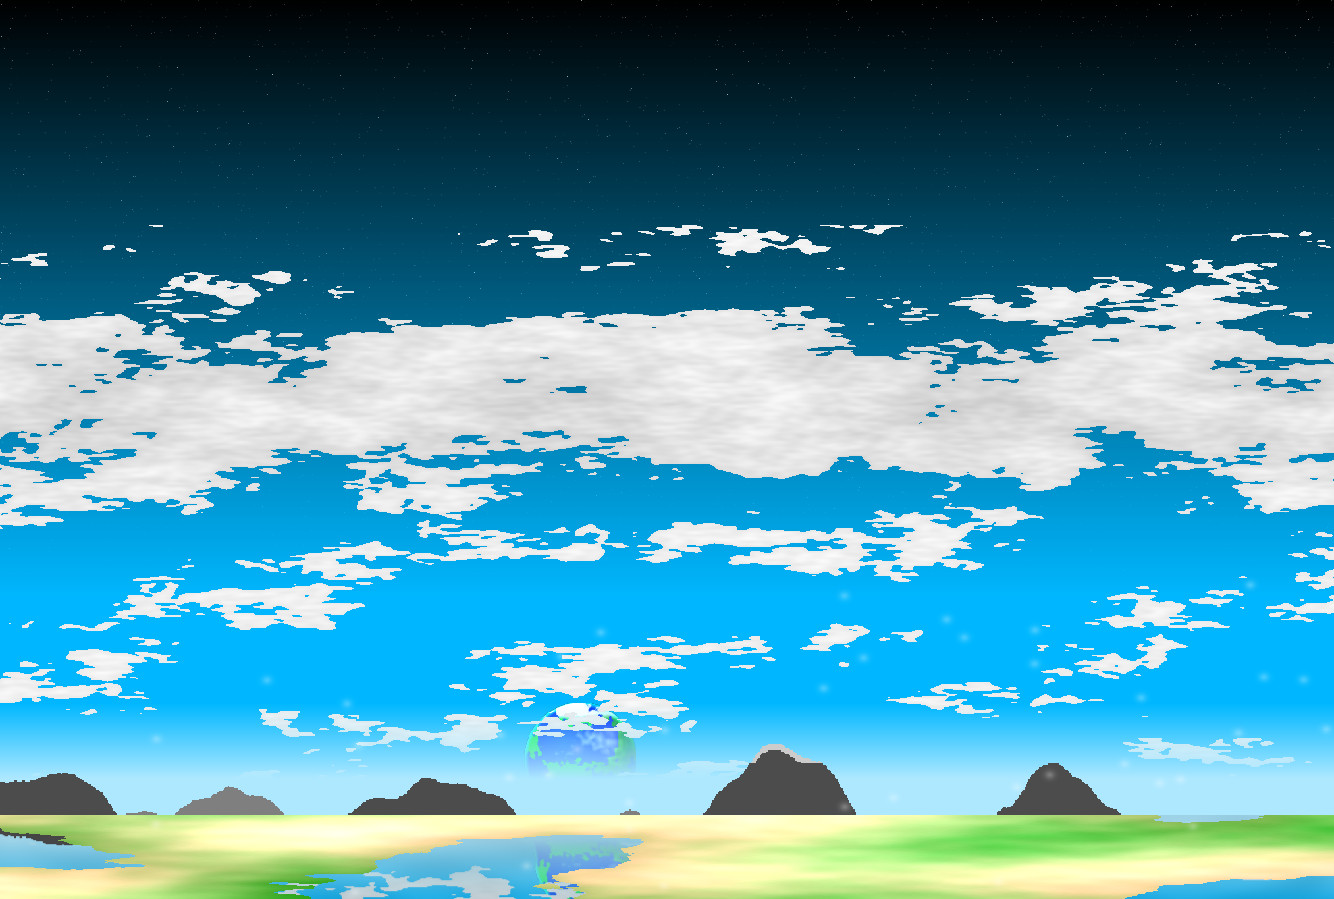
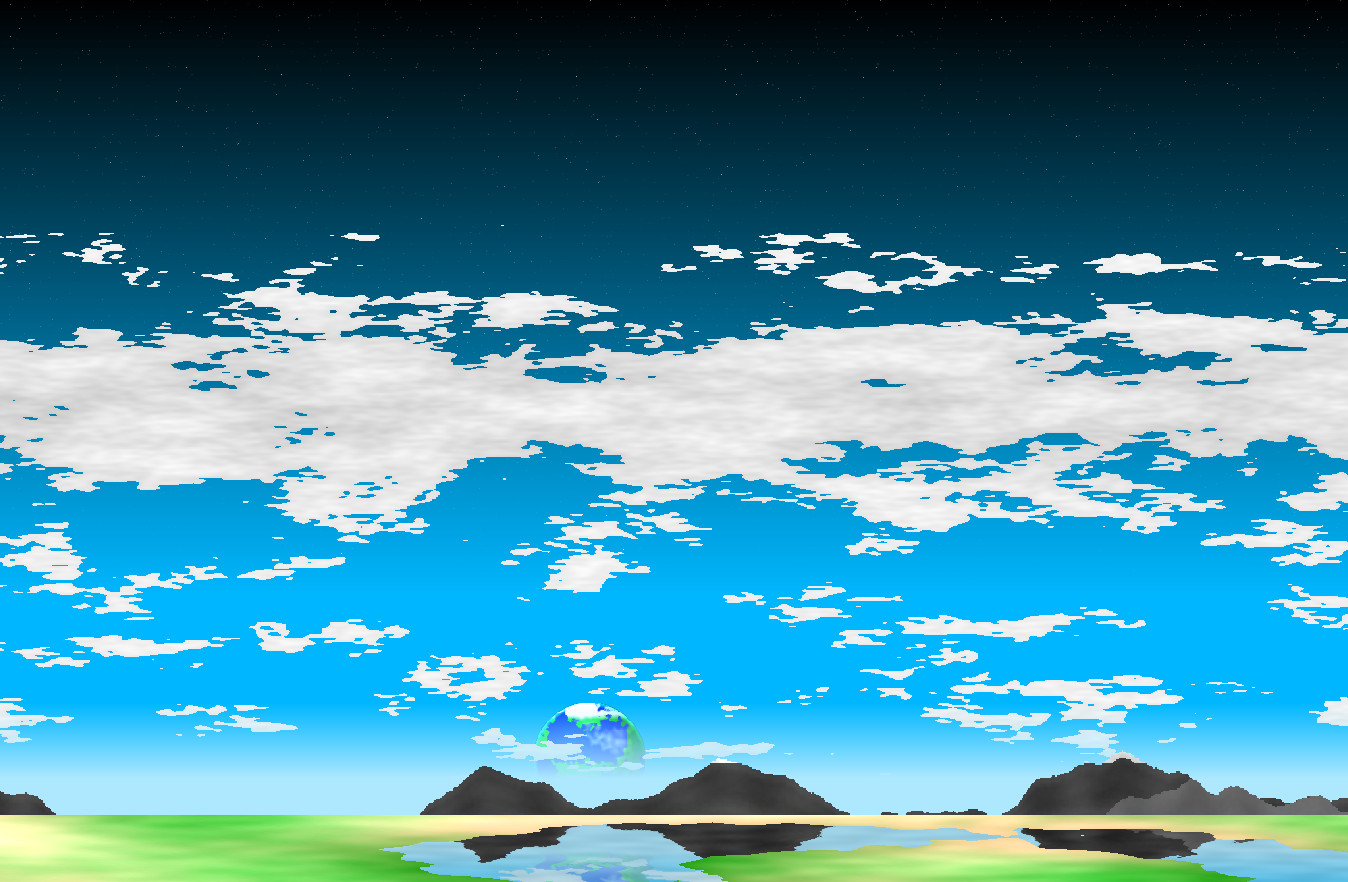
Rescaling some images to yeet ui

diff --git a/index.html b/index.html
@@ -279,53 +279,57 @@
 						<img src="randomScreens/atmosphere.jpg" alt="2D atmosphere" loading="lazy">
 						<div class="caption" loc="gallery.atmosphere">Experimentations with procedural 2D atmospheric rendering</div>
 					</div>
+					<div class="image-container">
+						<img src="randomScreens/scattering.jpg" alt="Realistic scattering" loading="lazy">
+						<div class="caption" loc="gallery.scattering">I simulated with <a onclick="rotateBuddy('Enigma')">Enigma</a> an atmosphere in Godot for my prep class final project</div>
+					</div>
 				</section>
 				<h1 id="buddies" loc="buddies" class="linkcopy">My dev buddies</h1>
 				<div class="title-bar"></div>
 				<section class="buddies-gallery">
 					<div class="buddiesPP">
 						<p>Frablock</p>
-						<a href="https://github.com/Frablock" target="_blank" rel="noopener noreferrer"><img src="buddies/frablock.jpg" width="150px"></a>
+						<a href="https://github.com/Frablock" target="_blank" rel="noopener noreferrer"><img src="buddies/frablock.jpg" width="150px" id="Frablock"></a>
 						<div loc="buddies.frablock">Communist</div>
 					</div>
 					<div class="buddiesPP">
 						<p>Ertalite</p>
-						<a href="https://github.com/ertalite" target="_blank" rel="noopener noreferrer"><img src="buddies/ertalite.jpg" width="150px"></a>
+						<a href="https://github.com/ertalite" target="_blank" rel="noopener noreferrer"><img src="buddies/ertalite.jpg" width="150px" id="Ertalite"></a>
 						<div loc="buddies.ertalite">Pushing rocks</div>
 					</div>
 					<div class="buddiesPP">
 						<p>Jordi</p>
-						<a href="https://github.com/Jordi-R66" target="_blank" rel="noopener noreferrer"><img src="buddies/jordi.jpg" width="150px"></a>
+						<a href="https://github.com/Jordi-R66" target="_blank" rel="noopener noreferrer"><img src="buddies/jordi.jpg" width="150px" id="Jordi"></a>
 						<div>Catalan</div>
 					</div>
 					<div class="buddiesPP">
 						<p>Vexmea</p>
-						<a href="https://vexmae.github.io" target="_blank" rel="noopener noreferrer"><img src="buddies/vexmea.jpg" width="150px"></a>
+						<a href="https://vexmae.github.io" target="_blank" rel="noopener noreferrer"><img src="buddies/vexmea.jpg" width="150px" id="Vexmea"></a>
 						<div>Femboy</div>
 					</div>
 					<div class="buddiesPP">
 						<p>Crafto</p>
-						<a href="https://instagram.com/malidevgames/" target="_blank" rel="noopener noreferrer"><img src="buddies/crafto.jpg" width="150px"></a>
+						<a href="https://instagram.com/malidevgames/" target="_blank" rel="noopener noreferrer"><img src="buddies/crafto.jpg" width="150px" id="Crafto"></a>
 						<div loc="buddies.crafto">Box stacker</div>
 					</div>
 					<div class="buddiesPP">
 						<p>Titanodelta</p>
-						<a href="https://instagram.com/h.p.t.d.entertainment/" target="_blank" rel="noopener noreferrer"><img src="buddies/titanodelta.jpg" width="150px"></a>
+						<a href="https://instagram.com/h.p.t.d.entertainment/" target="_blank" rel="noopener noreferrer"><img src="buddies/titanodelta.jpg" width="150px" id="Titanodelta"></a>
 						<div loc="buddies.titanodelta">Warlord</div>
 					</div>
 					<div class="buddiesPP">
 						<p>Anatom</p>
-						<a href="https://github.com/anatom3000" target="_blank" rel="noopener noreferrer"><img src="https://avatars.githubusercontent.com/u/49984698?v=4" width="150px"></a>
+						<a href="https://github.com/anatom3000" target="_blank" rel="noopener noreferrer"><img src="https://avatars.githubusercontent.com/u/49984698?v=4" width="150px" id="Anatom"></a>
 						<div>Furry</div>
 					</div>
 					<div class="buddiesPP">
 						<p>Enigma</p>
-						<a href="https://github.com/Checkmate6659" target="_blank" rel="noopener noreferrer"><img src="buddies/enigma.jpg" width="150px"></a>
+						<a href="https://github.com/Checkmate6659" target="_blank" rel="noopener noreferrer"><img src="buddies/enigma.jpg" width="150px" id="Enigma"></a>
 						<div loc="buddies.enigma">Thinking in 5D</div>
 					</div>
 					<div class="buddiesPP">
 						<p>NyanMaths</p>
-						<a href="https://github.com/NyanMaths" target="_blank" rel="noopener noreferrer"><img src="buddies/nyanmaths.jpg" width="150px"></a>
+						<a href="https://github.com/NyanMaths" target="_blank" rel="noopener noreferrer"><img src="buddies/nyanmaths.jpg" width="150px" id="NyanMaths"></a>
 						<div loc="buddies.nyanmaths">Hippie in flip flops</div>
 					</div>
 				</section>

diff --git a/loc.js b/loc.js
@@ -39,7 +39,8 @@ function getLoc(locKey, defaultLoc)
 function parseLoc(loc) {
     return loc.replaceAll("\n","<br/>")
     .replaceAll("CARLCASEY_LINK",`<a href="https://youtube.com/@WhiteBatAudio" target="_blank" rel="noopener noreferrer">Carl Casey @White Bat Audio</a>`)
-    .replaceAll("MODRINTH_HOLLOWKNIGHT",`<a href="https://modrinth.com/modpack/hollowknight" target="_blank" rel="noopener noreferrer">Modrinth</a>`);
+    .replaceAll("MODRINTH_HOLLOWKNIGHT",`<a href="https://modrinth.com/modpack/hollowknight" target="_blank" rel="noopener noreferrer">Modrinth</a>`)
+    .replaceAll("BUDDY_ENIGMA",`<a onclick="rotateBuddy('Enigma')">Enigma</a>`);
 }
 
 var enDict = {
@@ -132,6 +133,7 @@ This mod recreates these effects and some more.`,
 "gallery.mars": `Once I made a mars colonization future website for school`,
 "gallery.jug": `I sadly didn't made this`,
 "gallery.atmosphere": `Experimentations with procedural 2D atmospheric rendering`,
+"gallery.scattering": `I simulated with BUDDY_ENIGMA an atmosphere in Godot for my prep class final project`,
 
 "buddies": `My dev buddies`,
 "buddies.frablock": `Communist`,
@@ -235,6 +237,7 @@ Ce mod recrée ces effects et quelques autres.`,
 "gallery.mars": `Une fois j'ai fait un site du futur sur la colonisation martienne pour l'école`,
 "gallery.jug": `Je n'ai pas créé cette merveille`,
 "gallery.atmosphere": `Expérimentations de rendu d'atmosphère procédurale en 2D`,
+"gallery.scattering": `J'ai simulé avec BUDDY_ENIGMA une atmosphère dans Godot pour mon TIPE`,
 
 "buddies": `Mes potes développeurs`,
 "buddies.frablock": `Communiste`,

diff --git a/index.css b/index.css
@@ -186,6 +186,7 @@ p {
 .buddiesPP img {
 	border-radius: 50%;
 	transition: transform 0.2s, filter 0.2s;
+	transform-style: preserve-3d;
 }
 
 .buddiesPP img:hover:not(:active) {
@@ -208,6 +209,31 @@ p {
 	.buddiesPP {
 		padding: 30px;
 		min-width: 200px;
+	}
+}
+
+.buddiesPP img.rotate {
+	animation: rotateBuddy 1s ease-in-out forwards;
+}
+  
+@keyframes rotateBuddy {
+	0% {
+		transform: rotateY(0deg);
+	}
+	32% {
+		filter: brightness(1);
+	}
+	33% {
+		filter: brightness(0.8);
+	}
+	66% {
+		filter: brightness(0.8);
+	}
+	67% {
+		filter: brightness(1);
+	}
+	100% {
+		transform: rotateY(360deg);
 	}
 }
 
@@ -241,9 +267,6 @@ p {
 a {
 	text-decoration: none;
 	transition: color 0.2s ease, text-decoration 0.2s ease;
-}
-
-a:link {
 	color: #007bff;
 }
 

diff --git a/main.js b/main.js
@@ -15,7 +15,7 @@ let touchlastX = 0;
 let touchspeedX = 0;
 
 imageContainers.forEach((container, index) => {
-    container.addEventListener('click', () => {
+    container.querySelector('img').addEventListener('click', () => {
         displayImage(index, modalMedia, true);
     });
 });
@@ -233,4 +233,11 @@ function copyLink(link) {
 
 function mod(n, m) {
     return ((n % m) + m) % m;
+}
+
+function rotateBuddy(buddy) {
+    const buddyPP = document.getElementById(buddy);
+    if(buddyPP.classList.contains("rotate")) buddyPP.classList.remove("rotate");
+    buddyPP.classList.add("rotate");
+    setTimeout(function () { buddyPP.classList.remove("rotate"); }, 1000);
 }
